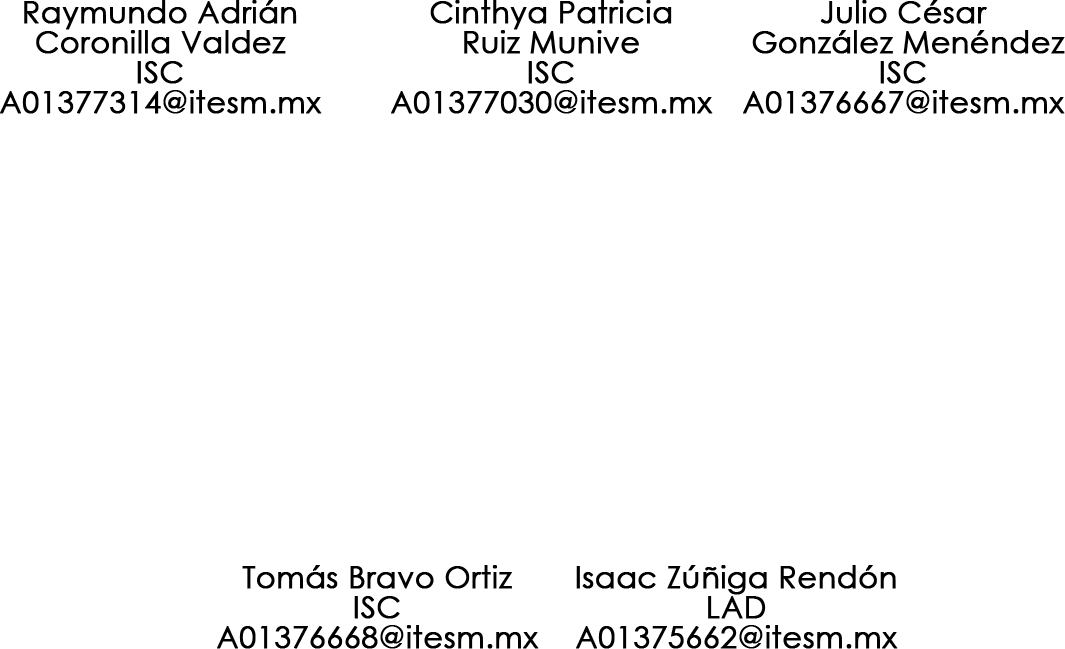
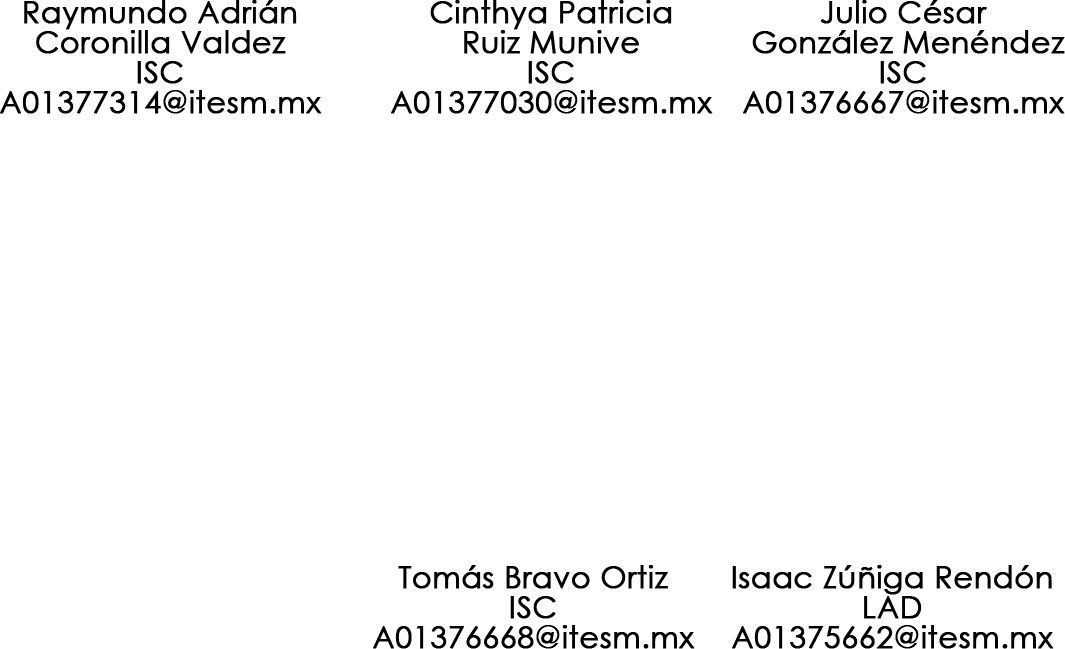
Modificaciones a pantalla créditos

Changed region(s): [[0.1859, 0.8629, 0.9915, 1.0]]

diff --git a/core/src/mx/itesm/jrcti/botscape/MenuCreditos.java b/core/src/mx/itesm/jrcti/botscape/MenuCreditos.java
@@ -34,6 +34,8 @@ public class MenuCreditos extends Pantalla {
     private Texture textRay;
     private Texture textJulio;
     private Texture textZuren;
+    private Texture textos;
+    private Texture fotoGrupal;
 
 
     //SpriteBatch
@@ -72,6 +74,10 @@ public class MenuCreditos extends Pantalla {
         ImageButton btnBack = new ImageButton(trdBtnBack);
         btnBack.setPosition(10,10);
         //Posición fotos
+        Image fotoEquipo = new Image(texturaFotoEquipo);
+        fotoEquipo.setPosition(ANCHO/2-fotoEquipo.getWidth()/2,ALTO/2-fotoEquipo.getHeight()/2);
+        Image imgTexto = new Image(textos);
+        imgTexto.setPosition(ANCHO/2-imgTexto.getWidth()/2,ALTO/2-imgTexto.getHeight()/2);
         /*Image fotoRay = new Image(textureRay);
         fotoRay.setPosition(btnBack.getX()+btnBack.getWidth()+1*(ANCHO-btnBack.getWidth())/2-(ANCHO-btnBack.getWidth())/4-fotoRay.getWidth()/2,ALTO/2-3*ALTO/8);
         Image fotoTommy = new Image(textureTommy);
@@ -83,10 +89,10 @@ public class MenuCreditos extends Pantalla {
         Image fotoCinth = new Image(textureCinth);
         //Primero de arriba
         fotoCinth.setPosition(1*ANCHO/3-ANCHO/6-fotoCinth.getWidth()/2,ALTO-3*ALTO/8);*/
-        Image fotoEquipo= new Image(texturaFotoEquipo);
-        fotoEquipo.setPosition(ANCHO/2-fotoEquipo.getWidth()/2,btnBack.getHeight()+10);
+        /*Image fotoEquipo= new Image(texturaFotoEquipo);
+        fotoEquipo.setPosition(ANCHO/2-fotoEquipo.getWidth()/2,btnBack.getHeight()+10);*/
         //Posición de los datos
-        Image textoRay = new Image (textRay);
+        /*Image textoRay = new Image (textRay);
         textoRay.setPosition(fotoEquipo.getX()-textoRay.getWidth()/2,fotoEquipo.getY()+fotoEquipo.getHeight()-textoRay.getHeight());
 
         Image textoTommy = new Image (textTommy);
@@ -99,25 +105,28 @@ public class MenuCreditos extends Pantalla {
         textoZuren.setPosition(fotoEquipo.getX()+3*fotoEquipo.getWidth()/5,textoRay.getY()-textoZuren.getHeight()+30);
 
         Image textoJulio = new Image (textJulio);
-        textoJulio.setPosition(fotoEquipo.getX()+fotoEquipo.getWidth()-textoJulio.getWidth()/2,fotoEquipo.getY()+fotoEquipo.getHeight()-textoJulio.getHeight());
+        textoJulio.setPosition(fotoEquipo.getX()+fotoEquipo.getWidth()-textoJulio.getWidth()/2,fotoEquipo.getY()+fotoEquipo.getHeight()-textoJulio.getHeight());*/
 
 
 
         //Dibujando los actores en pantalla
         escenaMenuCreditos.addActor(btnBack);
-        escenaMenuCreditos.addActor(fotoEquipo);
+        //escenaMenuCreditos.addActor(fotoEquipo);
         /*escenaMenuCreditos.addActor(fotoRay);
         escenaMenuCreditos.addActor(fotoJulio);
         escenaMenuCreditos.addActor(fotoTommy);
         escenaMenuCreditos.addActor(fotoZuren);
         escenaMenuCreditos.addActor(fotoCinth);*/
 
+        escenaMenuCreditos.addActor(imgTexto);
+        escenaMenuCreditos.addActor(fotoEquipo);
+
         //Dibujando datos en pantalla
-        escenaMenuCreditos.addActor(textoCinth);
+        /*escenaMenuCreditos.addActor(textoCinth);
         escenaMenuCreditos.addActor(textoTommy);
         escenaMenuCreditos.addActor(textoRay);
         escenaMenuCreditos.addActor(textoJulio);
-        escenaMenuCreditos.addActor(textoZuren);
+        escenaMenuCreditos.addActor(textoZuren);*/
 
 
         btnBack.addListener( new ClickListener(){
@@ -139,8 +148,10 @@ public class MenuCreditos extends Pantalla {
     private void cargarTexturas(){
         fondoCreditos= new Texture("Fondos/PausaFondo.jpg");
         texturabtnBack=new Texture("Botones/SeleccionNivelBtnBack.png");
+        textos = new Texture("Creditos/Textos.png");
+        texturaFotoEquipo = new Texture("Creditos/FotoEquipoT.png");
         //Añadiendo textura de fotografías
-        texturaFotoEquipo= new Texture("Creditos/FotoEquipo.jpg");
+        //texturaFotoEquipo= new Texture("Creditos/FotoEquipo.jpg");
         /*textureRay= new Texture("Creditos/FotoRay.jpg");
         textureTommy= new Texture("Creditos/FotoTommy.jpg");
         textureJulio =new Texture("Creditos/FotoJulio.jpg");
